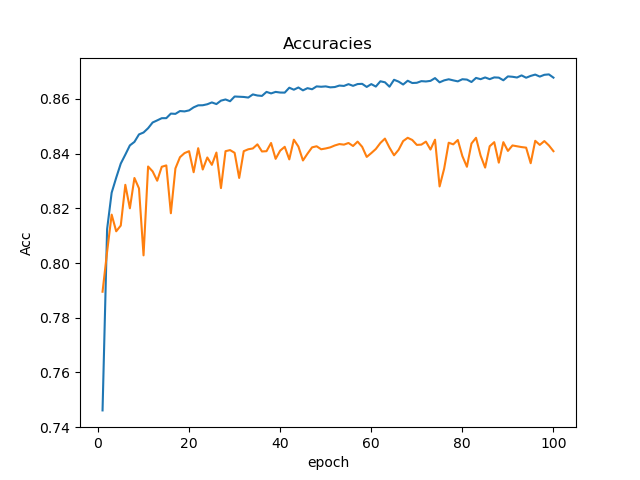
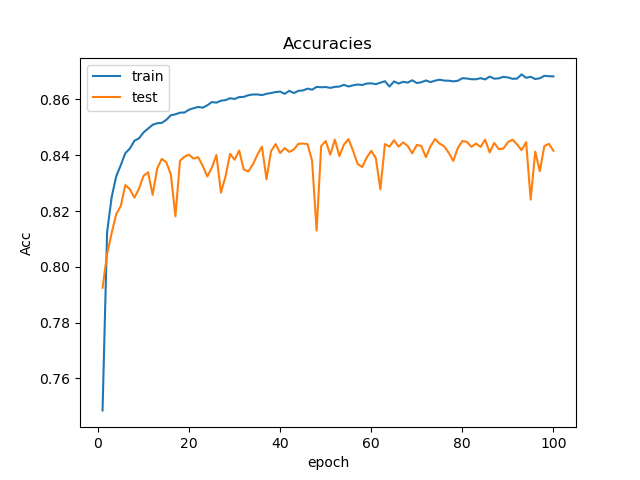
fix: Chapter3

diff --git a/teru77/Chapter3/Q2/q2.py b/teru77/Chapter3/Q2/q2.py
@@ -121,6 +121,7 @@ plt.plot(range(1, epochs+1),test_losses,label="test")
 plt.title('Loss')
 plt.xlabel('epoch')
 plt.ylabel('loss')
+plt.legend()
 plt.savefig('./q2_loss.png')
 plt.close()
 
@@ -130,6 +131,7 @@ plt.plot(range(1, epochs+1),test_accuracies,label="test")
 plt.title('Accuracies')
 plt.xlabel('epoch')
 plt.ylabel('Acc')
+plt.legend()
 plt.savefig('./q2_acc.png')
 plt.close()
 print("-"*30)
